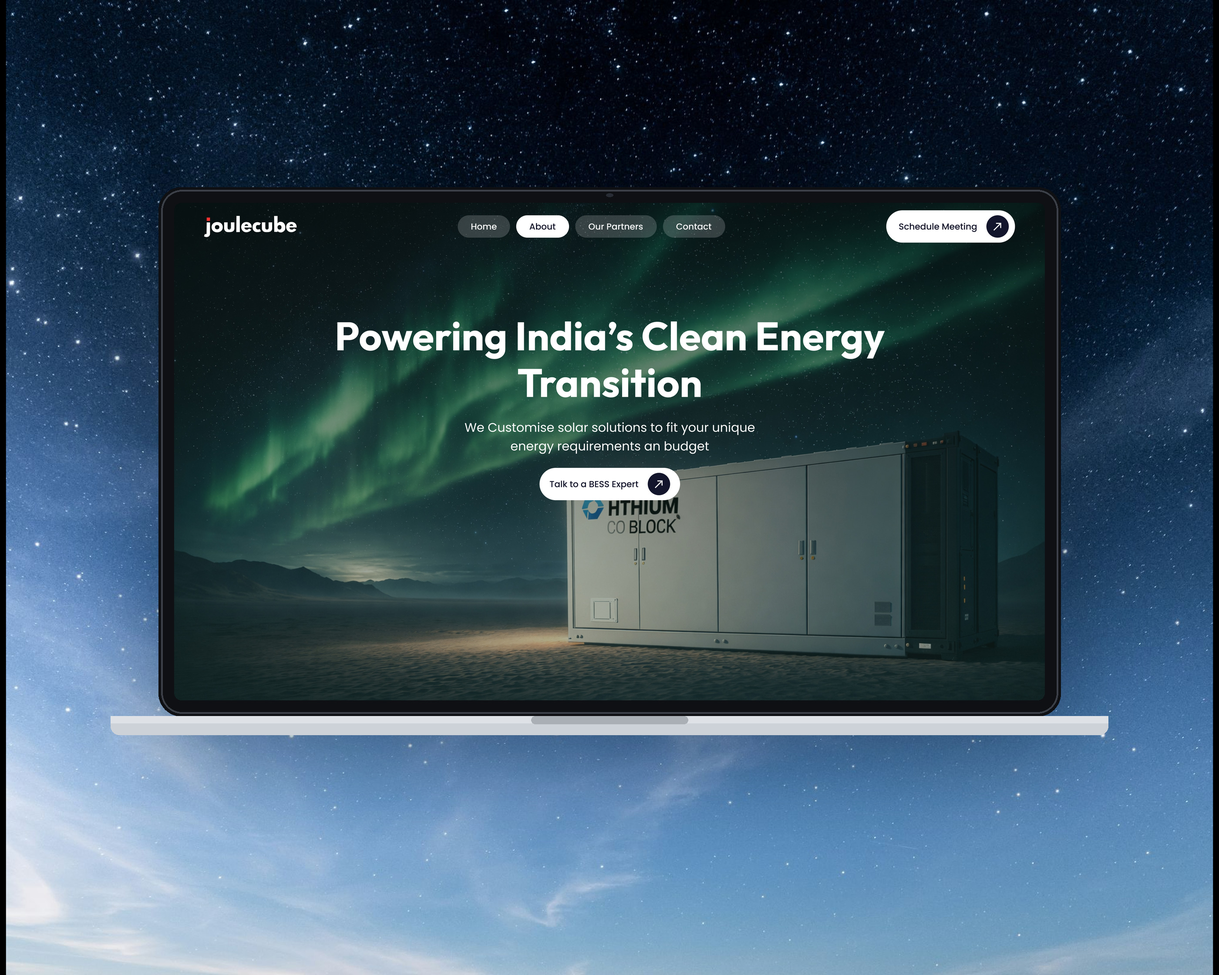
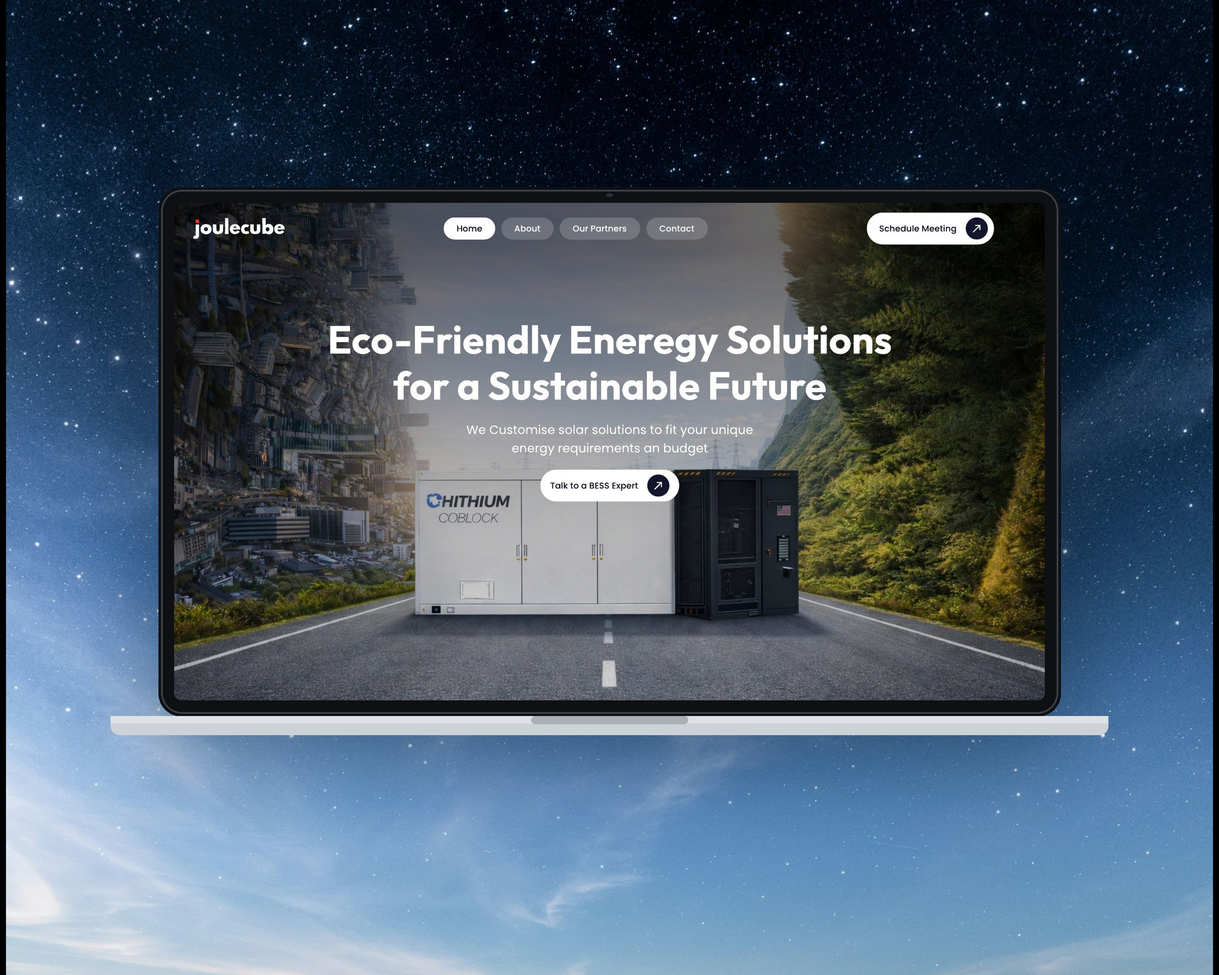
Joulecube: HD home page from the Figma PDF in the laptop scroll, gallery and cover
Claude-Session: https://claude.ai/code/session_01JtYSm81ZRXSEHyC1WgAY4B

Changed region(s): [[0.1243, 0.1875, 0.87, 0.7188]]

diff --git a/src/data/content.ts b/src/data/content.ts
@@ -1334,7 +1334,7 @@ export const caseStudies: Record<string, CaseStudy> = {
       text: "Scroll inside the laptop to read each page top to bottom, and switch pages with the tabs.",
       bg: "projects/joulecube-sky.jpg",
       pages: [
-        { label: "Home", src: "projects/joulecube-home-scroll.jpg" },
+        { label: "Home", src: "projects/joulecube-home.jpg" },
         { label: "About", src: "projects/joulecube-about.jpg" },
         { label: "EMS", src: "projects/joulecube-ems.jpg" },
         { label: "Utility scale", src: "projects/joulecube-utility.jpg" },
@@ -1345,7 +1345,7 @@ export const caseStudies: Record<string, CaseStudy> = {
     },
     gallery: {
       title: "The screens",
-      text: "The pages of the website, from the home page to service. Tap any screen to view it full size.",
+      text: "The pages of the website, from the home page to careers. Tap any screen to view it full size.",
       shots: [
         { src: "projects/joulecube-home.jpg", caption: "Home: a clear promise, what Joulecube offers, real sites, and an easy way to get started." },
         { src: "projects/joulecube-about.jpg", caption: "About: who Joulecube is, what storage makes possible, and the three core offerings." },
